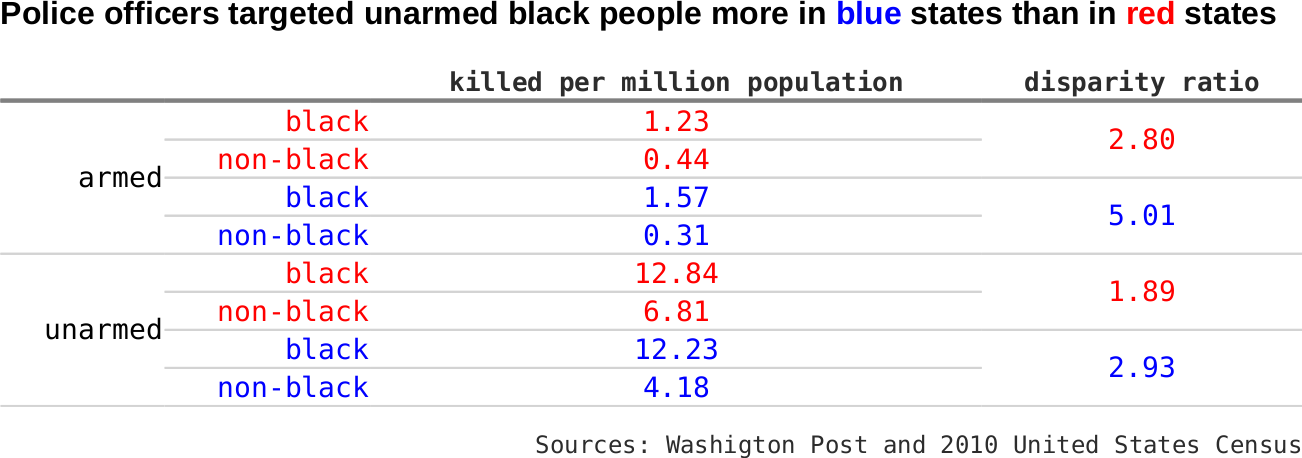
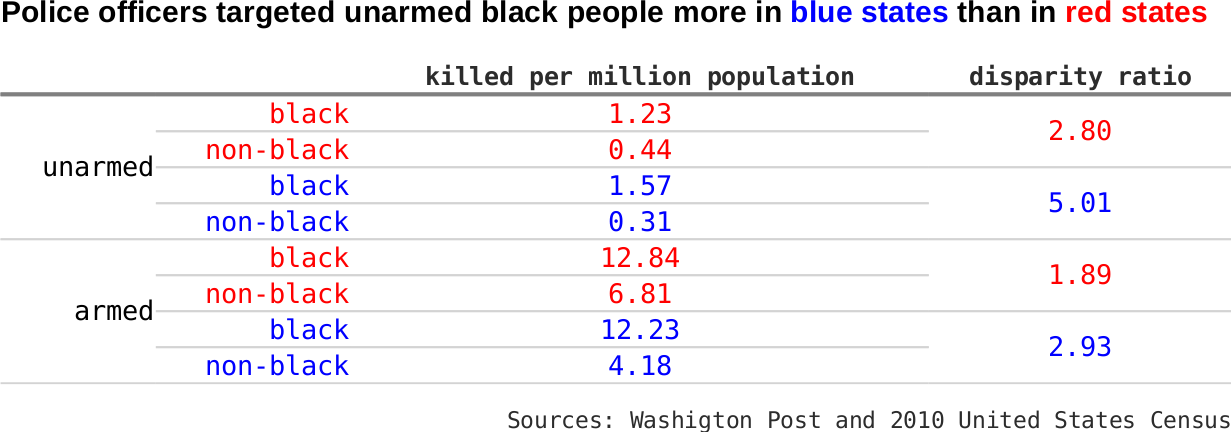
re-writing

diff --git a/README.md b/README.md
@@ -1,12 +1,16 @@
-# Black people are more likely to be killed by police but do not blame racism
+# Black people are more likely to be killed by police, but do not blame racism
 This project analyzes the [Washington Post police shooting database](https://github.com/washingtonpost/data-police-shootings) of civilians shot and killed by on-duty police officers in the United States in year 2015 and 2016. 
 
-## Summary
-Black people are more than twice as likely to be shot and killed by police officers as non-black people. In 2015-2016, xxxx people were fatally shot by on-duty police officers, as shown in the Washington Post police shooting database. Among those killed, xxx% are black people, while black people are only about xxx% of the total population. 
+## Introduction
+Black people are more than twice as likely to be shot and killed by police officers as non-black people. In 2015-2016, 1948 people were fatally shot by on-duty police officers, as recorded in the Washington Post police shooting database. Among those killed of known race, 26.3% are black people, while black people are only [13.3% of the total population](https://www.census.gov/quickfacts/). 
 
-Racism is often blamed for this disparity. If racism does play a role, we would expect smaller disparity in blue states than in red states, as black people are believed to face less discrimination in blue states. 
+It is reasonable to blame racism for this disparity. After years of fighting for equallity, explicit racism has been much eliminated from written laws and policies. It is, however, still wide spread in people's minds as prejudice. In addition, inplicit racism is still exists in the practices of organizations and institutions. We can even image how racism increases the likelihood of black people being shot by police officer.  First, it causes bias among individual police officers, which makes them more likely to shoot at black people when facing the same level of threat. Second, it leads to more police interactions with black people. For example, racism is behind systemic police practices such as car stop that single out black people; racism is also behind social issues including urban poverty that leads to higher crime rate among black people.  
 
-Surprisingly, the analysis of the Washington Post shooting database shows that the disparity is much larger in blue states than in red states. If we use this disparity as a measure of racism, blue states discriminate against black people more than red states do. 
+Now the question is how to prove that racism is the major cause of the disparity. This is not a question to be answered lightly. Instead we examine a more specific hypothesis derived from the quesiton: if racism does play a role, we would expect smaller disparity in blue states than in red states, as black people are believed to face less discrimination in blue states. The Washington Post police shooting database provides opportunity to test this hypothesis.
+
+Surprisingly, the analysis of the shooting database completely contradicts to the hypothesis: the disparity is actually much larger, instead of smaller, in blue states than in red states. In large urban areas, black people are 1.94 time as likely to be fatally shot by police as non-black people in red states while it is 3.07 times in blue states. For those unarmed victims, the disparity is 2.80 in red states and as high as 5.01 in blue states. 
+
+This result unexpectely disproves the theory that racism is to blame for the large disparity of black people being killed by police. There must be other reasons behind the large disparity.
 
 ## Results
 ### Disparity is larger in blue states than in red states
@@ -15,28 +19,31 @@ We divide the 50 states and DC into two groups, blue states and red states, usin
 
 The disparity ratio and number of fatal police shooting per million population in the two groups are calculated for the year 2015 and 2016. The disparity ratio is defined as the ratio of the number of fatal police shooting per million black population to that of per million non-black people. For example, the disparity ratio is 2 when 10 out of one million black people and 5 out of one million non-black people are killed.
 
-The disparity ratio is much higher in blue states than in red states. In red states, black people are 1.68 times as likely to be killed by police as non-black people. The disparity ratio nearly doubles to 3.26 in blue states, which is partially attributed to black people being more likely to be killed, but mainly is accounted for by less likely non-black people being fatally shot in blue states. In blue states, 13.59 per million black people were killed, 20% more than that in red state (11.32 per million). In blue state, 4.17 per million non-black people were killed, 40% less than that in red states (6.73 per million). 
+The calculation shows that the disparity ratio is much higher in blue states than in red states. In red states, black people are 1.68 times as likely to be killed by police as non-black people. The disparity ratio nearly doubles to 3.26 in blue states, which is partially attributed to black people being more likely to be killed, but mainly is accounted for by less likely non-black people being fatally shot in blue states. In blue states, 13.59 per million black people were killed, 20% more than that in red state (11.32 per million). In blue state, 4.17 per million non-black people were killed, 40% less than that in red states (6.73 per million). 
 
-One may argue that higher disparity in blue states could be result of higher urbanization rate in blue states. It is true that black people tend to concentrate in large urban area in blue states. According to 2010 census, 93% black people lived in a large urban area, which is defined as an urban area with more than 50,000 population. This percent is only 71% in red states. Generally speaking, police are more likely to shoot in large urban areas than in rural and small urban. A fair comparison should compare the disparity in large different areas separately.
+One may argue that higher disparity in blue states could be the result of higher urbanization rate in blue states. It is true that black people tend to concentrate in large urban area in blue states. According to 2010 census, 93% black people lived in a large urban area, which is defined as an urban area with more than 50,000 population. This percent is only 71% in red states. Generally speaking, police are more likely to shoot in large urban areas than in rural and small urban areas. A fair comparison should compare the disparity in different areas separately.
 
-The calculation shows that in large urban area, which accounts for 92% of black people killed, the disparity ratio is still much higher in blue state than in red states. The disparity ratio is 1.94 in red states and 3.07 in blue states. Almost all the difference is attributed to fewer non-black people being killed in blue states (4.49 per million) than in red states (7.25 per million). Black people are equally likely to be killed in both blue states and red states in large urban areas. 
+The re-calculation shows that in large urban area, which accounts for 92% of black people killed, the disparity ratio is still much higher in blue state than in red states. The disparity ratio is 1.94 in red states and 3.07 in blue states. Almost all the difference is attributed to fewer non-black people being killed in blue states (4.49 per million) than in red states (7.25 per million). Black people are equally likely to be killed in both blue states and red states in large urban areas. 
 
-The difference disparity ratio is even higher in rural and small urban areas. While black people are 3.29 times as likely to be killed as non-black people in blue states, black people are 0.77 times, actually less likely to be killed by police as non-black people. However, only about 8% cases of black people killed occurred in rural and small urban area.
+The difference in disparity ratio is even higher in rural and small urban areas. While black people are 3.29 times as likely to be killed as non-black people in blue states, black people are 0.77 times, actually less likely to be killed by police as non-black people. However, only about 8% cases of black people killed occurred in rural and small urban areas.
+
+***
+In title say in year 2015 and 2016xxxxxxxxxxxxxx
+also reconsider titles and subtitle to make them more conclusive
 
 <img src="figures/geo_disparity_vertical.png" alt="disparity ratio" style="width: 600px;"/>
 
 
-### Disparity in individual states
-We will pay attention to large urban area of significant states with more than 300,000 black population, or with more than 3 black people killed by police. 
+### The bluer the state, the larger the disparity
+In the following analysis, we will focus on large urban areas of significant states with more than 300,000 black population, or with more than 3 black people killed by police. 
 
-The bluer the state, the larger the disparity ratio. Disparity ratio has a clear uptrend when plotted against the vote for Obama in 2012 presidential election. The traditional blue states such as Illinois, Massachusetts, and New York double the disparity ratio of the national average. Washington D.C. makes an extreme case - all 8 people killed by police in 2015 and 2016 are black people, while only half the population are blacks. California is better but still higher than the national average. On the other hand, most states below the national average are red states, including Texas, Georgia, Alabama, and Tennessee.
+Disparity ratio has a clear uptrend when plotted against the vote for Obama in 2012 presidential election. The traditional blue states such as Illinois, Massachusetts, and New York double the disparity ratio of the national average. Washington D.C. makes an extreme case - all 8 people killed by police in 2015 and 2016 are black people, while only half the population are blacks. California is better but still higher than the national average. On the other hand, most states below the national average are red states, including Texas, Georgia, Alabama, and Tennessee.
 
+***
 <img src="figures/disparity_vote_UA.png" alt="disparity ratio all area" style="width: 800px;"/>
 
 
-### Unarmed civillians killed by police officers
-Racism increases the likelihood of black people being shot by police officer in two ways [538 refs?]. First, it causes bias among individual police officers, which makes them more likely to shoot at black people when facing the same level of threat. Second, it leads to more police interactions with black people. For example, racism is behind systemic police practices such as car stop that single out black people; racism is also behind social issues including urban poverty that leads to higher crime rate among black people. 
-
+### Unarmed black people are 5 times as likely to be killed as non-black people in large urban areas in blue states
 Unarmed civilians shot and killed by police officers are of particular importance when analyzing the role of racism in police shooting. Police officers are more justified to shoot at a armed civilian to protect themselves and others no matter the civilian is black or not. Bias of individual police plays less role in this situation and therefore the disparity is more of the result of more police interaction with black people. Bias of individual police plays more role when an unarmed civilian is shot, as the police officers face little real threat but shoot out of fear and misjudgment. Indeed, killing of unarmed black people are more likely sparks social unrest like what happened in Ferguson, Missouri in 2014 for killing of Michael Brown.
 
 Let's look at the disparity ratios of unarmed civilians killed by police in red and blue states. As discussed above, bias among individual police officers is expected to add up to the disparity when the civilians are unarmed. Indeed, the disparity ratio jumps to 2.8 in red states and to an astonishing 5.06 in blue states. These numbers are much higher than those of armed civilians, which are 1.89 and 2.93 respectively.
@@ -44,7 +51,24 @@ Let's look at the disparity ratios of unarmed civilians killed by police in red 
 More importantly, bias among individual police officers are more severe in blue states than in red states. In blue states, the disparity ratio in the case of unarmed civilians is 71% higher than in armed civilian, while it is only 48% higher in red states. 
 
 ***
-<img src="figures/table_unarmed_killed.png" alt="unarmed" style="width: 700px;"/>
+<img src="figures/table_unarmed_killed.png" alt="unarmed" style="width: 650px;"/>
+
+
+## Why blue states have much larger disparity
+Appearently racism is not the reason that blue states have much larger disparity. It is reasonable to assume that racism causes disparity. Blue states, however, have less severe racism, which would lead to smaller disparity based on the assumption. If one insists and argue that racism play roles in indirectr ways, the relationship between racism and disparity must be so vague that it is better to find out more direct causes.
+
+In order to understand why blue states have much larger disparity, we'd better first find conditions that cause disparity and then prove that particular condition is more severe in blue states than in red state. 
+
+XXX suggested in his blog post (link) that police officer in blue states are more protected by police union and therefore less likely to be hold accountable, which caused extra brutality in blue states. If this is true it might be able to explain the larger disparity in blue states. The logic is: a small number of bad police officers committed most of the fatal shooting. In red state, they will be punished and removed from police force; those alike will be detered from doing so. In blue states, however, they are protected by police union and will have chance to do it again; those alike has no fear to do it. If this small number of police officers are strongly racial biased, blue states will have larger disparity.
+
+Above theory, however, is built on many assumptions, and actual police union contracts does not support it. Campaign Zero, an organization???? aiming to end police brutality, has searched police contracts of the 100 largest US cities for languages that protect police officers in case of wrongdoing. The protection was assigned to six categories and the times of appearance of each category in the contract were counted. On average a city in blue states and red state has similar amount protection. Only two categories has 10-20% difference, which are unlikely to account for the huge difference in the disparity in blue and red states.
+
+***
+<img src="figures/union_contract_protect_police.png" alt="union_contract" style="width: 750px;"/>
+
+Broken window policing, ending which is Campaign Zero's number one solution to fight against police brutality, will for sure lead to disparity. This strategy is originated from the idea that a car or building with broken windows will be further severely damaged if not repaired promptly. Broken windows policing is to crack down on petty crimes and create a lawful envirenment in order to prevent more serious crimes. Under this strategy, more police forces are dispatched to troubled neighborehoods to prevent small crimes. Unfortunately, many black neighborehoods are included because of poverty, which increases encounter between police officers and black people. In addition, police officers tend to target black people in practicing this policy. These all lead to disparity.
+
+If we want to confirm that broken window policing caused the much large disparity in blue states, we must find evidence that blue states practice more broken window policing or black communities have more trouble in blue states. Since New York City adopted broken windows policing in XXXX1996, many city across the Unitd States followed the suitxxx. Yet in order to reveal how it affect the disparity, we need more data and quantitative ways to describe the application of broken windows policing in each city.
 
 
 ## Data preparation
